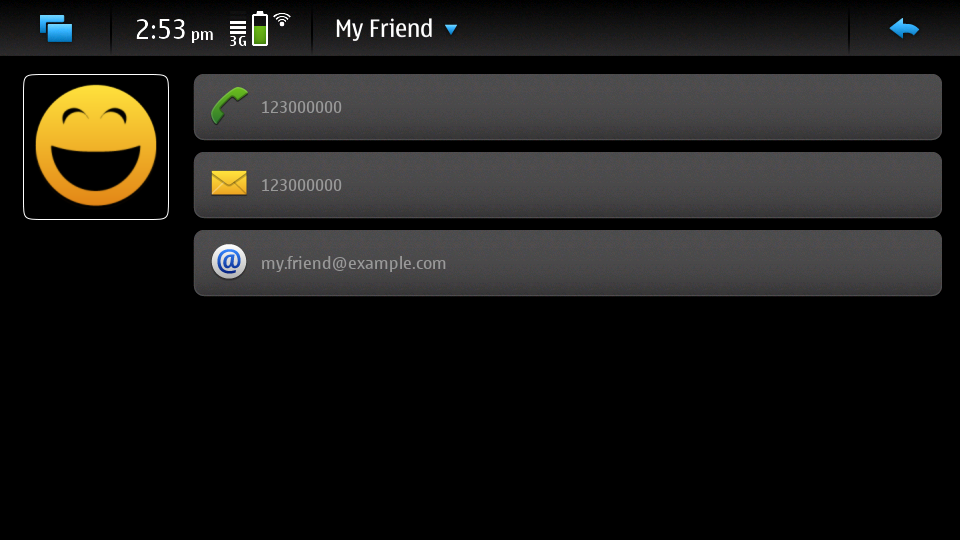
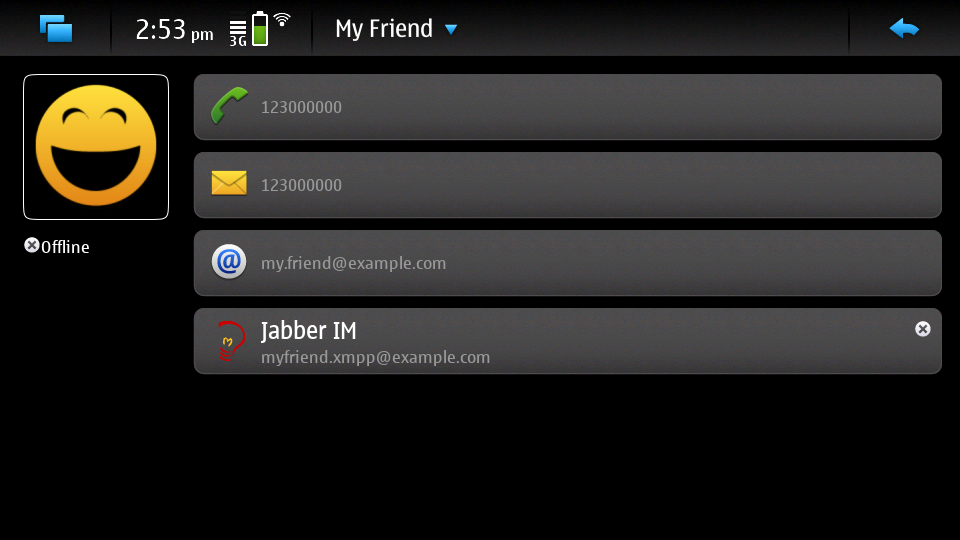
Added to the Contacts section. Added two new empty sections, Conversations and Dialer, to be able to link to them.

Changed region(s): [[0.1875, 0.563, 1.0, 0.7111], [0.0, 0.4444, 0.0938, 0.4741]]

diff --git a/source/chapters/contacts.rst b/source/chapters/contacts.rst
@@ -1,3 +1,8 @@
+.. |contact| image:: /screenshots/contacts/contact.png
+   :scale: 60%
+   :align: bottom
+   :alt: Alt
+
 .. |contacts-get| image:: /screenshots/contacts/contacts-get.png
    :scale: 60%
    :align: bottom
@@ -163,6 +168,21 @@
    :align: bottom
    :alt: Alt
 
+.. |contact-merge-conflict| image:: /screenshots/contacts/contact-merge-conflict.png
+   :scale: 60%
+   :align: bottom
+   :alt: Alt
+
+.. |contact-merge-conflict-name| image:: /screenshots/contacts/contact-merge-conflict-name.png
+   :scale: 60%
+   :align: bottom
+   :alt: Alt
+
+.. |contact-merged| image:: /screenshots/contacts/contact-merged.png
+   :scale: 60%
+   :align: bottom
+   :alt: Alt
+
 Contacts
 ========
 
@@ -178,9 +198,18 @@ If you don't have any contacts yet, you will be automatically shown the :ref:`ch
 
 .. note:: New addresses you receive instant messages (:term:`IM`) from will be automatically added as contacts. Only the IM address/ID will be filled-in, but you can add other information by editing the created contact.
 
-Tapping on a contact will show the details about that contact. From there you can also edit it, or share data about it.
+Tapping on a contact will show the details about that contact.
+
+     |contact|
+
+From there you can also edit it, or share data about it.
 
 Tap on the photo of the contact to quickly :ref:`chapters/contacts:Edit` it.
+
+Tapping on any contact data field will trigger a corresponding action, depending on the data type.
+Tapping on a phone number will open the :ref:`chapters/dialer:Dialer` application, tapping on an e-mail address will open the :ref:`chapters/email:E-mail` application.
+
+.. note:: :ref:`summary:Unexpected behavior`: Tapping on an Jabber/XMPP address will not open the :ref:`chapters/conversations:Conversations` app, but instead will just go back to the :ref:`chapters/contacts:Contacts` application main screen (contact list).
 
 **Options per-contact**
 
@@ -234,6 +263,20 @@ And then you have the choice of also sending the avatar of the contact with the 
 Merge contact
 -------------
 
+This allows you to merge more contacts into a single one.
+
+You will be asked to confirm the right data, which will be saved in the final merged contact file, in case of differences or conflicts between unique field types, such as name or surname. Here, in case of a last name conflict:
+
+     |contact-merge-conflict|
+
+Tap on the Last name field to select the correct version:
+
+     |contact-merge-conflict-name|
+
+Different IDs or phone numbers will simply be added as supplimentary contact data fields to the resulting merged contact file. In this case, a second phone number is added:
+
+     |contact-merged|
+
 Delete contact
 --------------
 
@@ -242,6 +285,9 @@ Create shortcut
 
 Authorization request
 ---------------------
+
+This will request from the contact the authorization to receive presence and status updates.
+The will have to be confirmed in the remote client application by the contact.
 
 **Options in the in-app menu**
 

diff --git a/source/summary.rst b/source/summary.rst
@@ -190,6 +190,7 @@ Unexpected behavior
   - Some applications only work in landscape mode (e.g. email, calendar)
   - When changing :ref:`chapters/settings:Themes`, you have to still manually change the wallpaper by selecting the wallpaper corresponding to the theme from :ref:`chapters/ui:Change background` in the Desktop menu
   - Pressing on :ref:`chapters/settings:Pair new device` to pair a new external :term:`GPS` device seems to not do anything.
+  - tapping on an XMPP address of a contact in the :ref:`chapters/contacts:Contacts` application does nothing, instead going back to the main screen of the :ref:`chapters/contacts:Contacts` application.
 
 Leftovers
 ^^^^^^^^^

diff --git a/source/index.rst b/source/index.rst
@@ -13,6 +13,8 @@ Welcome to the Maemo Leste User Handbook!
    /chapters/ui
    /chapters/settings
    /chapters/contacts
+   /chapters/dialer
+   /chapters/conversations
    /chapters/email
    /chapters/clock
    /chapters/devices

diff --git a/source/chapters/conversations.rst b/source/chapters/conversations.rst
@@ -1,0 +1,2 @@
+Conversations
+=============

diff --git a/source/chapters/dialer.rst b/source/chapters/dialer.rst
@@ -1,0 +1,2 @@
+Dialer
+======
